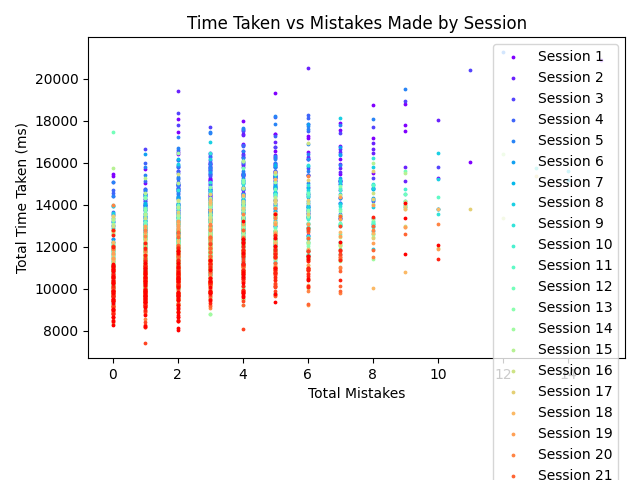
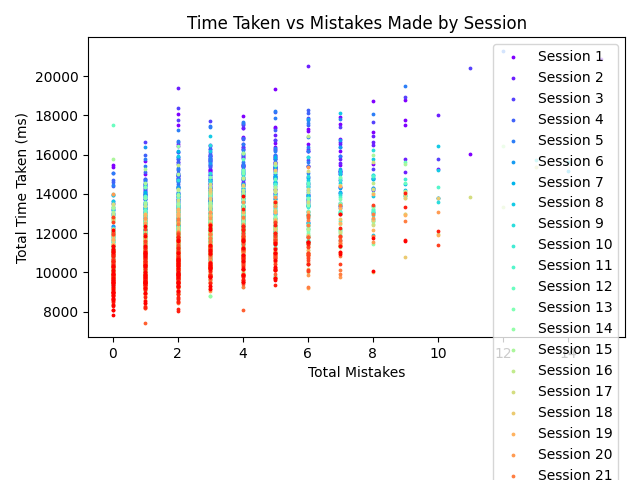
Session 25

diff --git a/analysis/filter.py b/analysis/filter.py
@@ -1,0 +1,26 @@
+import json
+from datetime import datetime
+
+
+def filter_json_by_date(file_path, excluded_day):
+    # Load the JSON data from the file
+    with open(file_path, "r") as file:
+        data = json.load(file)
+
+    # Filter out items with the excluded day
+    filtered_data = {
+        key: value
+        for key, value in data.items()
+        if datetime.fromisoformat(key).day != excluded_day
+    }
+
+    # Save the filtered data back to a file or return it
+    with open("filtered_data.json", "w") as file:
+        json.dump(filtered_data, file, indent=4)
+
+    return filtered_data
+
+
+# Replace 'your_file_path.json' with the path to your JSON file
+file_path = "analysis/session_25/data/localStorage.json"
+filter_json_by_date(file_path, 17)

diff --git a/analysis/generate_session_data.py b/analysis/generate_session_data.py
@@ -6,7 +6,7 @@ from generate_lm import generate_lm
 from generate_rolling import generate_rolling
 
 
-session_ID = "24"
+session_ID = "25"
 
 localStorage_to_raw(session_ID)
 raw_to_session(session_ID)

diff --git a/analysis/generate_agg_data.py b/analysis/generate_agg_data.py
@@ -108,7 +108,7 @@ def generate_agg_data(sessions):
     print("Aggregate data generated successfully.")
 
 
-upr = 25
+upr = 26
 
 generate_agg_data([str(i) for i in range(1, upr)])
 generate_lm(
